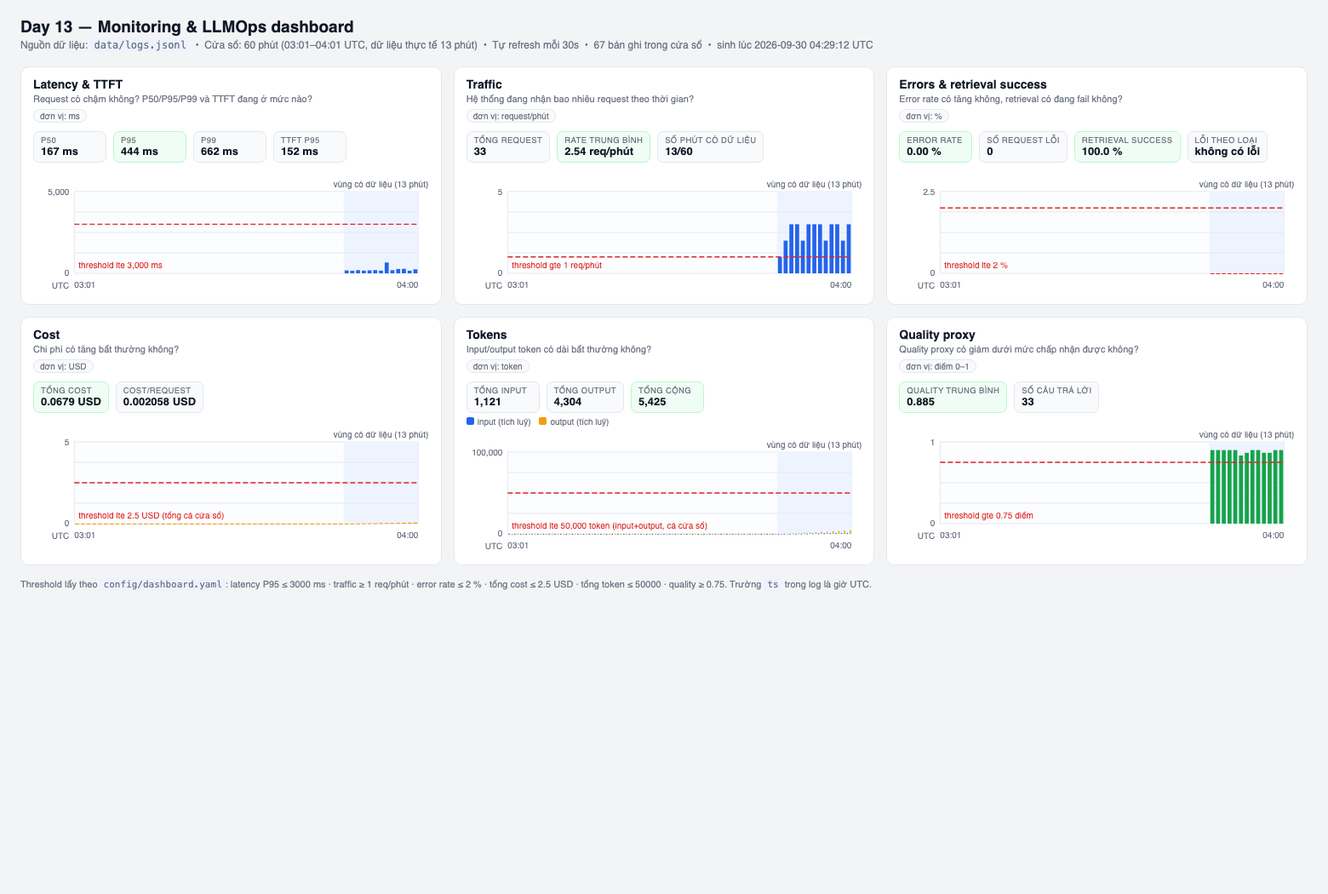
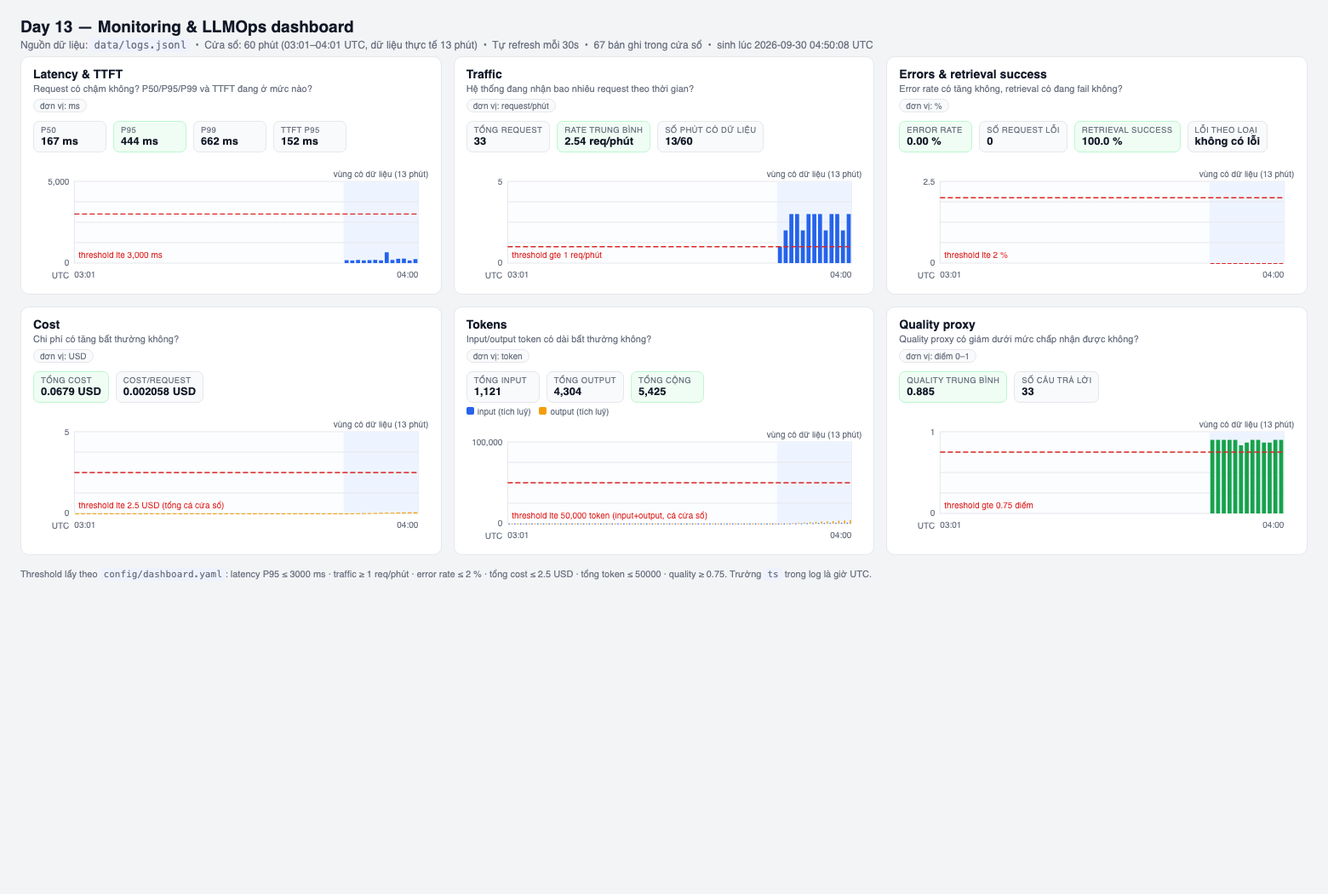
feat(cp3): capture the rag_slow incident evidence and harden the dashboard
- dashboard: add --note so an incident screenshot can carry the challenge ID
  and baseline-vs-incident numbers, and make the log path label tolerate a log
  file outside the repository instead of raising ValueError
- raise the dashboard CSS/source path in line with the new note block
- evidence 11: re-rendered from the CP2 window, byte-reproducible from this
  script and free of local machine paths
- evidence 12: incident dashboard for day13-k4-l3b-monitoring-llmops-v1
  (rag_slow), showing baseline p50 159ms against incident p50 2666ms
- evidence 13: raw correlation_id log lines with the payload preview stripped,
  so no challenge input text is committed; sha256 of each raw line is included

pytest 32 passed; validate_dashboard 6/6; validate_logs 100/100

diff --git a/submission/evidence/dashboard-incident-runtime.html b/submission/evidence/dashboard-incident-runtime.html
@@ -1,0 +1,116 @@
+<!doctype html>
+<html lang="vi">
+<head>
+<meta charset="utf-8">
+<meta http-equiv="refresh" content="30">
+<title>Day 13 Monitoring &amp; LLMOps dashboard</title>
+<style>
+  :root { color-scheme: light; }
+  * { box-sizing: border-box; }
+  body { margin: 0; padding: 20px 24px 32px; background: #f3f4f6; color: #111827;
+         font-family: -apple-system, "Segoe UI", Roboto, Helvetica, Arial, sans-serif; }
+  h1 { font-size: 19px; margin: 0 0 4px; }
+  .sub { color: #6b7280; font-size: 12px; margin: 0 0 6px; }
+  .note { font-size: 12.5px; font-weight: 600; color: #7f1d1d; background: #fef2f2;
+           border: 1px solid #fecaca; border-radius: 7px; padding: 6px 10px; margin: 0 0 14px; }
+  .grid { display: grid; grid-template-columns: repeat(3, 1fr); gap: 14px; }
+  .panel { background: #fff; border: 1px solid #e5e7eb; border-radius: 10px; padding: 12px 14px 8px; }
+  .panel h2 { font-size: 14px; margin: 0; }
+  .panel .q { color: #6b7280; font-size: 11px; margin: 3px 0 0; }
+  .unit { display: inline-block; margin-top: 5px; font-size: 10px; color: #6b7280;
+           background: #f9fafb; border: 1px solid #e5e7eb; border-radius: 999px; padding: 1px 7px; }
+  .stats { display: flex; flex-wrap: wrap; gap: 8px; margin: 10px 0 4px; }
+  .stat { background: #f9fafb; border: 1px solid #e5e7eb; border-radius: 7px;
+           padding: 5px 8px; min-width: 86px; }
+  .stat-ok { border-color: #bbf7d0; background: #f0fdf4; }
+  .stat-bad { border-color: #fecaca; background: #fef2f2; }
+  .stat-label { display: block; font-size: 9.5px; text-transform: uppercase;
+                 letter-spacing: .04em; color: #6b7280; }
+  .stat-value { display: block; font-size: 13px; font-weight: 600; }
+  .legend { font-size: 10px; color: #6b7280; margin: 4px 0 0; }
+  .legend-item { margin-right: 10px; }
+  .legend-item i { display: inline-block; width: 9px; height: 9px; border-radius: 2px; margin-right: 4px; }
+  footer { margin-top: 16px; font-size: 11px; color: #6b7280; }
+  code { background: #eef2ff; padding: 1px 4px; border-radius: 4px; }
+</style>
+</head>
+<body>
+  <h1>Day 13 — Monitoring &amp; LLMOps dashboard</h1>
+  <p class="sub">
+    Nguồn dữ liệu: <code>data/logs.jsonl</code>
+    &nbsp;•&nbsp; Cửa sổ: 60 phút (03:49–04:49 UTC, dữ liệu thực tế
+    4 phút)
+    &nbsp;•&nbsp; Tự refresh mỗi 30s
+    &nbsp;•&nbsp; 73 bản ghi trong cửa sổ
+    &nbsp;•&nbsp; sinh lúc 2026-09-30 04:51:00 UTC
+  </p>
+  <p class="note">CHALLENGE day13-k4-l3b-monitoring-llmops-v1 · incident rag_slow · feature monitoring · ngưỡng challenge 2000ms · baseline p50 159ms (0/10 request vượt) → challenge p50 2.666ms (25/25 vượt) · TTFT gần như không đổi (139ms) · sự cố 04:43–04:46 UTC ngày 2026-09-30</p>
+  <div class="grid">
+    
+    <section class="panel" id="latency">
+      <header>
+        <h2>Latency & TTFT</h2>
+        <p class="q">Request có chậm không? P50/P95/P99 và TTFT đang ở mức nào?</p>
+        <span class="unit">đơn vị: ms</span>
+      </header>
+      <div class="stats"><div class="stat"><span class="stat-label">P50</span><span class="stat-value">2,663 ms</span></div><div class="stat stat-ok"><span class="stat-label">P95</span><span class="stat-value">2,703 ms</span></div><div class="stat"><span class="stat-label">P99</span><span class="stat-value">3,162 ms</span></div><div class="stat"><span class="stat-label">TTFT P95</span><span class="stat-value">139 ms</span></div></div>
+      <svg viewBox="0 0 460 150" width="100%" height="150" role="img"><rect x="46" y="30" width="404" height="96" fill="#fbfdff" stroke="#e5e7eb"/><rect x="409.6" y="30" width="26.9" height="96" fill="#eef4ff"/><text x="423.1" y="25" text-anchor="middle" font-size="10" fill="#6b7280">vùng có dữ liệu (4 phút)</text><line x1="46" y1="54.0" x2="450" y2="54.0" stroke="#e5e7eb"/><line x1="46" y1="78.0" x2="450" y2="78.0" stroke="#e5e7eb"/><line x1="46" y1="102.0" x2="450" y2="102.0" stroke="#e5e7eb"/><text x="40" y="34" text-anchor="end" font-size="10" fill="#6b7280">5,000</text><text x="40" y="129" text-anchor="end" font-size="10" fill="#6b7280">0</text><rect x="410.6" y="74.6" width="4.7" height="51.4" fill="#2563eb"><title>04:43 — 2,677.00 ms</title></rect><rect x="417.3" y="74.6" width="4.7" height="51.4" fill="#2563eb"><title>04:44 — 2,677.00 ms</title></rect><rect x="424.1" y="65.3" width="4.7" height="60.7" fill="#2563eb"><title>04:45 — 3,162.00 ms</title></rect><rect x="430.8" y="74.6" width="4.7" height="51.4" fill="#2563eb"><title>04:46 — 2,677.00 ms</title></rect><line x1="46" y1="68.4" x2="450" y2="68.4" stroke="#dc2626" stroke-width="1.4" stroke-dasharray="6 3"/><text x="51" y="120" font-size="10" fill="#dc2626" stroke="#ffffff" stroke-width="2.5" paint-order="stroke">threshold lte 3,000 ms</text><text x="40" y="144" text-anchor="end" font-size="10" fill="#6b7280">UTC</text><text x="46" y="143" font-size="10" fill="#6b7280">03:49</text><text x="450" y="143" text-anchor="end" font-size="10" fill="#6b7280">04:48</text></svg>
+    </section>
+    
+    <section class="panel" id="traffic">
+      <header>
+        <h2>Traffic</h2>
+        <p class="q">Hệ thống đang nhận bao nhiêu request theo thời gian?</p>
+        <span class="unit">đơn vị: request/phút</span>
+      </header>
+      <div class="stats"><div class="stat"><span class="stat-label">Tổng request</span><span class="stat-value">35</span></div><div class="stat stat-ok"><span class="stat-label">Rate trung bình</span><span class="stat-value">8.75 req/phút</span></div><div class="stat"><span class="stat-label">Số phút có dữ liệu</span><span class="stat-value">4/60</span></div></div>
+      <svg viewBox="0 0 460 150" width="100%" height="150" role="img"><rect x="46" y="30" width="404" height="96" fill="#fbfdff" stroke="#e5e7eb"/><rect x="409.6" y="30" width="26.9" height="96" fill="#eef4ff"/><text x="423.1" y="25" text-anchor="middle" font-size="10" fill="#6b7280">vùng có dữ liệu (4 phút)</text><line x1="46" y1="54.0" x2="450" y2="54.0" stroke="#e5e7eb"/><line x1="46" y1="78.0" x2="450" y2="78.0" stroke="#e5e7eb"/><line x1="46" y1="102.0" x2="450" y2="102.0" stroke="#e5e7eb"/><text x="40" y="34" text-anchor="end" font-size="10" fill="#6b7280">20</text><text x="40" y="129" text-anchor="end" font-size="10" fill="#6b7280">0</text><rect x="410.6" y="54.0" width="4.7" height="72.0" fill="#2563eb"><title>04:43 — 15.00 req/phút</title></rect><rect x="417.3" y="97.2" width="4.7" height="28.8" fill="#2563eb"><title>04:44 — 6.00 req/phút</title></rect><rect x="424.1" y="82.8" width="4.7" height="43.2" fill="#2563eb"><title>04:45 — 9.00 req/phút</title></rect><rect x="430.8" y="102.0" width="4.7" height="24.0" fill="#2563eb"><title>04:46 — 5.00 req/phút</title></rect><line x1="46" y1="121.2" x2="450" y2="121.2" stroke="#dc2626" stroke-width="1.4" stroke-dasharray="6 3"/><text x="51" y="120" font-size="10" fill="#dc2626" stroke="#ffffff" stroke-width="2.5" paint-order="stroke">threshold gte 1 req/phút</text><text x="40" y="144" text-anchor="end" font-size="10" fill="#6b7280">UTC</text><text x="46" y="143" font-size="10" fill="#6b7280">03:49</text><text x="450" y="143" text-anchor="end" font-size="10" fill="#6b7280">04:48</text></svg>
+    </section>
+    
+    <section class="panel" id="errors">
+      <header>
+        <h2>Errors & retrieval success</h2>
+        <p class="q">Error rate có tăng không, retrieval có đang fail không?</p>
+        <span class="unit">đơn vị: %</span>
+      </header>
+      <div class="stats"><div class="stat stat-ok"><span class="stat-label">Error rate</span><span class="stat-value">0.00 %</span></div><div class="stat"><span class="stat-label">Số request lỗi</span><span class="stat-value">0</span></div><div class="stat stat-ok"><span class="stat-label">Retrieval success</span><span class="stat-value">100.0 %</span></div><div class="stat"><span class="stat-label">Lỗi theo loại</span><span class="stat-value">không có lỗi</span></div></div>
+      <svg viewBox="0 0 460 150" width="100%" height="150" role="img"><rect x="46" y="30" width="404" height="96" fill="#fbfdff" stroke="#e5e7eb"/><rect x="409.6" y="30" width="26.9" height="96" fill="#eef4ff"/><text x="423.1" y="25" text-anchor="middle" font-size="10" fill="#6b7280">vùng có dữ liệu (4 phút)</text><line x1="46" y1="54.0" x2="450" y2="54.0" stroke="#e5e7eb"/><line x1="46" y1="78.0" x2="450" y2="78.0" stroke="#e5e7eb"/><line x1="46" y1="102.0" x2="450" y2="102.0" stroke="#e5e7eb"/><text x="40" y="34" text-anchor="end" font-size="10" fill="#6b7280">2.5</text><text x="40" y="129" text-anchor="end" font-size="10" fill="#6b7280">0</text><rect x="410.6" y="126.0" width="4.7" height="1.0" fill="#dc2626"><title>04:43 — 0.00 %</title></rect><rect x="417.3" y="126.0" width="4.7" height="1.0" fill="#dc2626"><title>04:44 — 0.00 %</title></rect><rect x="424.1" y="126.0" width="4.7" height="1.0" fill="#dc2626"><title>04:45 — 0.00 %</title></rect><rect x="430.8" y="126.0" width="4.7" height="1.0" fill="#dc2626"><title>04:46 — 0.00 %</title></rect><line x1="46" y1="49.2" x2="450" y2="49.2" stroke="#dc2626" stroke-width="1.4" stroke-dasharray="6 3"/><text x="51" y="120" font-size="10" fill="#dc2626" stroke="#ffffff" stroke-width="2.5" paint-order="stroke">threshold lte 2 %</text><text x="40" y="144" text-anchor="end" font-size="10" fill="#6b7280">UTC</text><text x="46" y="143" font-size="10" fill="#6b7280">03:49</text><text x="450" y="143" text-anchor="end" font-size="10" fill="#6b7280">04:48</text></svg>
+    </section>
+    
+    <section class="panel" id="cost">
+      <header>
+        <h2>Cost</h2>
+        <p class="q">Chi phí có tăng bất thường không?</p>
+        <span class="unit">đơn vị: USD</span>
+      </header>
+      <div class="stats"><div class="stat stat-ok"><span class="stat-label">Tổng cost</span><span class="stat-value">0.0800 USD</span></div><div class="stat"><span class="stat-label">Cost/request</span><span class="stat-value">0.002285 USD</span></div></div>
+      <svg viewBox="0 0 460 150" width="100%" height="150" role="img"><rect x="46" y="30" width="404" height="96" fill="#fbfdff" stroke="#e5e7eb"/><rect x="409.6" y="30" width="26.9" height="96" fill="#eef4ff"/><text x="423.1" y="25" text-anchor="middle" font-size="10" fill="#6b7280">vùng có dữ liệu (4 phút)</text><line x1="46" y1="54.0" x2="450" y2="54.0" stroke="#e5e7eb"/><line x1="46" y1="78.0" x2="450" y2="78.0" stroke="#e5e7eb"/><line x1="46" y1="102.0" x2="450" y2="102.0" stroke="#e5e7eb"/><text x="40" y="34" text-anchor="end" font-size="10" fill="#6b7280">5</text><text x="40" y="129" text-anchor="end" font-size="10" fill="#6b7280">0</text><rect x="47.0" y="126.0" width="4.7" height="1.0" fill="#f59e0b"><title>03:49 — 0.00 USD</title></rect><rect x="53.7" y="126.0" width="4.7" height="1.0" fill="#f59e0b"><title>03:50 — 0.00 USD</title></rect><rect x="60.5" y="126.0" width="4.7" height="1.0" fill="#f59e0b"><title>03:51 — 0.00 USD</title></rect><rect x="67.2" y="126.0" width="4.7" height="1.0" fill="#f59e0b"><title>03:52 — 0.00 USD</title></rect><rect x="73.9" y="126.0" width="4.7" height="1.0" fill="#f59e0b"><title>03:53 — 0.00 USD</title></rect><rect x="80.7" y="126.0" width="4.7" height="1.0" fill="#f59e0b"><title>03:54 — 0.00 USD</title></rect><rect x="87.4" y="126.0" width="4.7" height="1.0" fill="#f59e0b"><title>03:55 — 0.00 USD</title></rect><rect x="94.1" y="126.0" width="4.7" height="1.0" fill="#f59e0b"><title>03:56 — 0.00 USD</title></rect><rect x="100.9" y="126.0" width="4.7" height="1.0" fill="#f59e0b"><title>03:57 — 0.00 USD</title></rect><rect x="107.6" y="126.0" width="4.7" height="1.0" fill="#f59e0b"><title>03:58 — 0.00 USD</title></rect><rect x="114.3" y="126.0" width="4.7" height="1.0" fill="#f59e0b"><title>03:59 — 0.00 USD</title></rect><rect x="121.1" y="126.0" width="4.7" height="1.0" fill="#f59e0b"><title>04:00 — 0.00 USD</title></rect><rect x="127.8" y="126.0" width="4.7" height="1.0" fill="#f59e0b"><title>04:01 — 0.00 USD</title></rect><rect x="134.5" y="126.0" width="4.7" height="1.0" fill="#f59e0b"><title>04:02 — 0.00 USD</title></rect><rect x="141.3" y="126.0" width="4.7" height="1.0" fill="#f59e0b"><title>04:03 — 0.00 USD</title></rect><rect x="148.0" y="126.0" width="4.7" height="1.0" fill="#f59e0b"><title>04:04 — 0.00 USD</title></rect><rect x="154.7" y="126.0" width="4.7" height="1.0" fill="#f59e0b"><title>04:05 — 0.00 USD</title></rect><rect x="161.5" y="126.0" width="4.7" height="1.0" fill="#f59e0b"><title>04:06 — 0.00 USD</title></rect><rect x="168.2" y="126.0" width="4.7" height="1.0" fill="#f59e0b"><title>04:07 — 0.00 USD</title></rect><rect x="174.9" y="126.0" width="4.7" height="1.0" fill="#f59e0b"><title>04:08 — 0.00 USD</title></rect><rect x="181.7" y="126.0" width="4.7" height="1.0" fill="#f59e0b"><title>04:09 — 0.00 USD</title></rect><rect x="188.4" y="126.0" width="4.7" height="1.0" fill="#f59e0b"><title>04:10 — 0.00 USD</title></rect><rect x="195.1" y="126.0" width="4.7" height="1.0" fill="#f59e0b"><title>04:11 — 0.00 USD</title></rect><rect x="201.9" y="126.0" width="4.7" height="1.0" fill="#f59e0b"><title>04:12 — 0.00 USD</title></rect><rect x="208.6" y="126.0" width="4.7" height="1.0" fill="#f59e0b"><title>04:13 — 0.00 USD</title></rect><rect x="215.3" y="126.0" width="4.7" height="1.0" fill="#f59e0b"><title>04:14 — 0.00 USD</title></rect><rect x="222.1" y="126.0" width="4.7" height="1.0" fill="#f59e0b"><title>04:15 — 0.00 USD</title></rect><rect x="228.8" y="126.0" width="4.7" height="1.0" fill="#f59e0b"><title>04:16 — 0.00 USD</title></rect><rect x="235.5" y="126.0" width="4.7" height="1.0" fill="#f59e0b"><title>04:17 — 0.00 USD</title></rect><rect x="242.3" y="126.0" width="4.7" height="1.0" fill="#f59e0b"><title>04:18 — 0.00 USD</title></rect><rect x="249.0" y="126.0" width="4.7" height="1.0" fill="#f59e0b"><title>04:19 — 0.00 USD</title></rect><rect x="255.7" y="126.0" width="4.7" height="1.0" fill="#f59e0b"><title>04:20 — 0.00 USD</title></rect><rect x="262.5" y="126.0" width="4.7" height="1.0" fill="#f59e0b"><title>04:21 — 0.00 USD</title></rect><rect x="269.2" y="126.0" width="4.7" height="1.0" fill="#f59e0b"><title>04:22 — 0.00 USD</title></rect><rect x="275.9" y="126.0" width="4.7" height="1.0" fill="#f59e0b"><title>04:23 — 0.00 USD</title></rect><rect x="282.7" y="126.0" width="4.7" height="1.0" fill="#f59e0b"><title>04:24 — 0.00 USD</title></rect><rect x="289.4" y="126.0" width="4.7" height="1.0" fill="#f59e0b"><title>04:25 — 0.00 USD</title></rect><rect x="296.1" y="126.0" width="4.7" height="1.0" fill="#f59e0b"><title>04:26 — 0.00 USD</title></rect><rect x="302.9" y="126.0" width="4.7" height="1.0" fill="#f59e0b"><title>04:27 — 0.00 USD</title></rect><rect x="309.6" y="126.0" width="4.7" height="1.0" fill="#f59e0b"><title>04:28 — 0.00 USD</title></rect><rect x="316.3" y="126.0" width="4.7" height="1.0" fill="#f59e0b"><title>04:29 — 0.00 USD</title></rect><rect x="323.1" y="126.0" width="4.7" height="1.0" fill="#f59e0b"><title>04:30 — 0.00 USD</title></rect><rect x="329.8" y="126.0" width="4.7" height="1.0" fill="#f59e0b"><title>04:31 — 0.00 USD</title></rect><rect x="336.5" y="126.0" width="4.7" height="1.0" fill="#f59e0b"><title>04:32 — 0.00 USD</title></rect><rect x="343.3" y="126.0" width="4.7" height="1.0" fill="#f59e0b"><title>04:33 — 0.00 USD</title></rect><rect x="350.0" y="126.0" width="4.7" height="1.0" fill="#f59e0b"><title>04:34 — 0.00 USD</title></rect><rect x="356.7" y="126.0" width="4.7" height="1.0" fill="#f59e0b"><title>04:35 — 0.00 USD</title></rect><rect x="363.5" y="126.0" width="4.7" height="1.0" fill="#f59e0b"><title>04:36 — 0.00 USD</title></rect><rect x="370.2" y="126.0" width="4.7" height="1.0" fill="#f59e0b"><title>04:37 — 0.00 USD</title></rect><rect x="376.9" y="126.0" width="4.7" height="1.0" fill="#f59e0b"><title>04:38 — 0.00 USD</title></rect><rect x="383.7" y="126.0" width="4.7" height="1.0" fill="#f59e0b"><title>04:39 — 0.00 USD</title></rect><rect x="390.4" y="126.0" width="4.7" height="1.0" fill="#f59e0b"><title>04:40 — 0.00 USD</title></rect><rect x="397.1" y="126.0" width="4.7" height="1.0" fill="#f59e0b"><title>04:41 — 0.00 USD</title></rect><rect x="403.9" y="126.0" width="4.7" height="1.0" fill="#f59e0b"><title>04:42 — 0.00 USD</title></rect><rect x="410.6" y="125.3" width="4.7" height="1.0" fill="#f59e0b"><title>04:43 — 0.03 USD</title></rect><rect x="417.3" y="125.1" width="4.7" height="1.0" fill="#f59e0b"><title>04:44 — 0.05 USD</title></rect><rect x="424.1" y="124.7" width="4.7" height="1.3" fill="#f59e0b"><title>04:45 — 0.07 USD</title></rect><rect x="430.8" y="124.5" width="4.7" height="1.5" fill="#f59e0b"><title>04:46 — 0.08 USD</title></rect><rect x="437.5" y="124.5" width="4.7" height="1.5" fill="#f59e0b"><title>04:47 — 0.08 USD</title></rect><rect x="444.3" y="124.5" width="4.7" height="1.5" fill="#f59e0b"><title>04:48 — 0.08 USD</title></rect><line x1="46" y1="78.0" x2="450" y2="78.0" stroke="#dc2626" stroke-width="1.4" stroke-dasharray="6 3"/><text x="51" y="120" font-size="10" fill="#dc2626" stroke="#ffffff" stroke-width="2.5" paint-order="stroke">threshold lte 2.5 USD (tổng cả cửa sổ)</text><text x="40" y="144" text-anchor="end" font-size="10" fill="#6b7280">UTC</text><text x="46" y="143" font-size="10" fill="#6b7280">03:49</text><text x="450" y="143" text-anchor="end" font-size="10" fill="#6b7280">04:48</text></svg>
+    </section>
+    
+    <section class="panel" id="tokens">
+      <header>
+        <h2>Tokens</h2>
+        <p class="q">Input/output token có dài bất thường không?</p>
+        <span class="unit">đơn vị: token</span>
+      </header>
+      <div class="stats"><div class="stat"><span class="stat-label">Tổng input</span><span class="stat-value">1,213</span></div><div class="stat"><span class="stat-label">Tổng output</span><span class="stat-value">5,090</span></div><div class="stat stat-ok"><span class="stat-label">Tổng cộng</span><span class="stat-value">6,303</span></div></div>
+      <div class="legend"><span class="legend-item"><i style="background:#2563eb"></i>input (tích luỹ)</span><span class="legend-item"><i style="background:#f59e0b"></i>output (tích luỹ)</span></div><svg viewBox="0 0 460 150" width="100%" height="150" role="img"><rect x="46" y="30" width="404" height="96" fill="#fbfdff" stroke="#e5e7eb"/><rect x="409.6" y="30" width="26.9" height="96" fill="#eef4ff"/><text x="423.1" y="25" text-anchor="middle" font-size="10" fill="#6b7280">vùng có dữ liệu (4 phút)</text><line x1="46" y1="54.0" x2="450" y2="54.0" stroke="#e5e7eb"/><line x1="46" y1="78.0" x2="450" y2="78.0" stroke="#e5e7eb"/><line x1="46" y1="102.0" x2="450" y2="102.0" stroke="#e5e7eb"/><text x="40" y="34" text-anchor="end" font-size="10" fill="#6b7280">100,000</text><text x="40" y="129" text-anchor="end" font-size="10" fill="#6b7280">0</text><rect x="47.0" y="126.0" width="1.5" height="1.0" fill="#2563eb"><title>03:49 — 0.00 token</title></rect><rect x="50.5" y="126.0" width="1.5" height="1.0" fill="#f59e0b"><title>03:49 — 0.00 token</title></rect><rect x="53.7" y="126.0" width="1.5" height="1.0" fill="#2563eb"><title>03:50 — 0.00 token</title></rect><rect x="57.2" y="126.0" width="1.5" height="1.0" fill="#f59e0b"><title>03:50 — 0.00 token</title></rect><rect x="60.5" y="126.0" width="1.5" height="1.0" fill="#2563eb"><title>03:51 — 0.00 token</title></rect><rect x="64.0" y="126.0" width="1.5" height="1.0" fill="#f59e0b"><title>03:51 — 0.00 token</title></rect><rect x="67.2" y="126.0" width="1.5" height="1.0" fill="#2563eb"><title>03:52 — 0.00 token</title></rect><rect x="70.7" y="126.0" width="1.5" height="1.0" fill="#f59e0b"><title>03:52 — 0.00 token</title></rect><rect x="73.9" y="126.0" width="1.5" height="1.0" fill="#2563eb"><title>03:53 — 0.00 token</title></rect><rect x="77.4" y="126.0" width="1.5" height="1.0" fill="#f59e0b"><title>03:53 — 0.00 token</title></rect><rect x="80.7" y="126.0" width="1.5" height="1.0" fill="#2563eb"><title>03:54 — 0.00 token</title></rect><rect x="84.2" y="126.0" width="1.5" height="1.0" fill="#f59e0b"><title>03:54 — 0.00 token</title></rect><rect x="87.4" y="126.0" width="1.5" height="1.0" fill="#2563eb"><title>03:55 — 0.00 token</title></rect><rect x="90.9" y="126.0" width="1.5" height="1.0" fill="#f59e0b"><title>03:55 — 0.00 token</title></rect><rect x="94.1" y="126.0" width="1.5" height="1.0" fill="#2563eb"><title>03:56 — 0.00 token</title></rect><rect x="97.6" y="126.0" width="1.5" height="1.0" fill="#f59e0b"><title>03:56 — 0.00 token</title></rect><rect x="100.9" y="126.0" width="1.5" height="1.0" fill="#2563eb"><title>03:57 — 0.00 token</title></rect><rect x="104.4" y="126.0" width="1.5" height="1.0" fill="#f59e0b"><title>03:57 — 0.00 token</title></rect><rect x="107.6" y="126.0" width="1.5" height="1.0" fill="#2563eb"><title>03:58 — 0.00 token</title></rect><rect x="111.1" y="126.0" width="1.5" height="1.0" fill="#f59e0b"><title>03:58 — 0.00 token</title></rect><rect x="114.3" y="126.0" width="1.5" height="1.0" fill="#2563eb"><title>03:59 — 0.00 token</title></rect><rect x="117.8" y="126.0" width="1.5" height="1.0" fill="#f59e0b"><title>03:59 — 0.00 token</title></rect><rect x="121.1" y="126.0" width="1.5" height="1.0" fill="#2563eb"><title>04:00 — 0.00 token</title></rect><rect x="124.6" y="126.0" width="1.5" height="1.0" fill="#f59e0b"><title>04:00 — 0.00 token</title></rect><rect x="127.8" y="126.0" width="1.5" height="1.0" fill="#2563eb"><title>04:01 — 0.00 token</title></rect><rect x="131.3" y="126.0" width="1.5" height="1.0" fill="#f59e0b"><title>04:01 — 0.00 token</title></rect><rect x="134.5" y="126.0" width="1.5" height="1.0" fill="#2563eb"><title>04:02 — 0.00 token</title></rect><rect x="138.0" y="126.0" width="1.5" height="1.0" fill="#f59e0b"><title>04:02 — 0.00 token</title></rect><rect x="141.3" y="126.0" width="1.5" height="1.0" fill="#2563eb"><title>04:03 — 0.00 token</title></rect><rect x="144.8" y="126.0" width="1.5" height="1.0" fill="#f59e0b"><title>04:03 — 0.00 token</title></rect><rect x="148.0" y="126.0" width="1.5" height="1.0" fill="#2563eb"><title>04:04 — 0.00 token</title></rect><rect x="151.5" y="126.0" width="1.5" height="1.0" fill="#f59e0b"><title>04:04 — 0.00 token</title></rect><rect x="154.7" y="126.0" width="1.5" height="1.0" fill="#2563eb"><title>04:05 — 0.00 token</title></rect><rect x="158.2" y="126.0" width="1.5" height="1.0" fill="#f59e0b"><title>04:05 — 0.00 token</title></rect><rect x="161.5" y="126.0" width="1.5" height="1.0" fill="#2563eb"><title>04:06 — 0.00 token</title></rect><rect x="165.0" y="126.0" width="1.5" height="1.0" fill="#f59e0b"><title>04:06 — 0.00 token</title></rect><rect x="168.2" y="126.0" width="1.5" height="1.0" fill="#2563eb"><title>04:07 — 0.00 token</title></rect><rect x="171.7" y="126.0" width="1.5" height="1.0" fill="#f59e0b"><title>04:07 — 0.00 token</title></rect><rect x="174.9" y="126.0" width="1.5" height="1.0" fill="#2563eb"><title>04:08 — 0.00 token</title></rect><rect x="178.4" y="126.0" width="1.5" height="1.0" fill="#f59e0b"><title>04:08 — 0.00 token</title></rect><rect x="181.7" y="126.0" width="1.5" height="1.0" fill="#2563eb"><title>04:09 — 0.00 token</title></rect><rect x="185.2" y="126.0" width="1.5" height="1.0" fill="#f59e0b"><title>04:09 — 0.00 token</title></rect><rect x="188.4" y="126.0" width="1.5" height="1.0" fill="#2563eb"><title>04:10 — 0.00 token</title></rect><rect x="191.9" y="126.0" width="1.5" height="1.0" fill="#f59e0b"><title>04:10 — 0.00 token</title></rect><rect x="195.1" y="126.0" width="1.5" height="1.0" fill="#2563eb"><title>04:11 — 0.00 token</title></rect><rect x="198.6" y="126.0" width="1.5" height="1.0" fill="#f59e0b"><title>04:11 — 0.00 token</title></rect><rect x="201.9" y="126.0" width="1.5" height="1.0" fill="#2563eb"><title>04:12 — 0.00 token</title></rect><rect x="205.4" y="126.0" width="1.5" height="1.0" fill="#f59e0b"><title>04:12 — 0.00 token</title></rect><rect x="208.6" y="126.0" width="1.5" height="1.0" fill="#2563eb"><title>04:13 — 0.00 token</title></rect><rect x="212.1" y="126.0" width="1.5" height="1.0" fill="#f59e0b"><title>04:13 — 0.00 token</title></rect><rect x="215.3" y="126.0" width="1.5" height="1.0" fill="#2563eb"><title>04:14 — 0.00 token</title></rect><rect x="218.8" y="126.0" width="1.5" height="1.0" fill="#f59e0b"><title>04:14 — 0.00 token</title></rect><rect x="222.1" y="126.0" width="1.5" height="1.0" fill="#2563eb"><title>04:15 — 0.00 token</title></rect><rect x="225.6" y="126.0" width="1.5" height="1.0" fill="#f59e0b"><title>04:15 — 0.00 token</title></rect><rect x="228.8" y="126.0" width="1.5" height="1.0" fill="#2563eb"><title>04:16 — 0.00 token</title></rect><rect x="232.3" y="126.0" width="1.5" height="1.0" fill="#f59e0b"><title>04:16 — 0.00 token</title></rect><rect x="235.5" y="126.0" width="1.5" height="1.0" fill="#2563eb"><title>04:17 — 0.00 token</title></rect><rect x="239.0" y="126.0" width="1.5" height="1.0" fill="#f59e0b"><title>04:17 — 0.00 token</title></rect><rect x="242.3" y="126.0" width="1.5" height="1.0" fill="#2563eb"><title>04:18 — 0.00 token</title></rect><rect x="245.8" y="126.0" width="1.5" height="1.0" fill="#f59e0b"><title>04:18 — 0.00 token</title></rect><rect x="249.0" y="126.0" width="1.5" height="1.0" fill="#2563eb"><title>04:19 — 0.00 token</title></rect><rect x="252.5" y="126.0" width="1.5" height="1.0" fill="#f59e0b"><title>04:19 — 0.00 token</title></rect><rect x="255.7" y="126.0" width="1.5" height="1.0" fill="#2563eb"><title>04:20 — 0.00 token</title></rect><rect x="259.2" y="126.0" width="1.5" height="1.0" fill="#f59e0b"><title>04:20 — 0.00 token</title></rect><rect x="262.5" y="126.0" width="1.5" height="1.0" fill="#2563eb"><title>04:21 — 0.00 token</title></rect><rect x="266.0" y="126.0" width="1.5" height="1.0" fill="#f59e0b"><title>04:21 — 0.00 token</title></rect><rect x="269.2" y="126.0" width="1.5" height="1.0" fill="#2563eb"><title>04:22 — 0.00 token</title></rect><rect x="272.7" y="126.0" width="1.5" height="1.0" fill="#f59e0b"><title>04:22 — 0.00 token</title></rect><rect x="275.9" y="126.0" width="1.5" height="1.0" fill="#2563eb"><title>04:23 — 0.00 token</title></rect><rect x="279.4" y="126.0" width="1.5" height="1.0" fill="#f59e0b"><title>04:23 — 0.00 token</title></rect><rect x="282.7" y="126.0" width="1.5" height="1.0" fill="#2563eb"><title>04:24 — 0.00 token</title></rect><rect x="286.2" y="126.0" width="1.5" height="1.0" fill="#f59e0b"><title>04:24 — 0.00 token</title></rect><rect x="289.4" y="126.0" width="1.5" height="1.0" fill="#2563eb"><title>04:25 — 0.00 token</title></rect><rect x="292.9" y="126.0" width="1.5" height="1.0" fill="#f59e0b"><title>04:25 — 0.00 token</title></rect><rect x="296.1" y="126.0" width="1.5" height="1.0" fill="#2563eb"><title>04:26 — 0.00 token</title></rect><rect x="299.6" y="126.0" width="1.5" height="1.0" fill="#f59e0b"><title>04:26 — 0.00 token</title></rect><rect x="302.9" y="126.0" width="1.5" height="1.0" fill="#2563eb"><title>04:27 — 0.00 token</title></rect><rect x="306.4" y="126.0" width="1.5" height="1.0" fill="#f59e0b"><title>04:27 — 0.00 token</title></rect><rect x="309.6" y="126.0" width="1.5" height="1.0" fill="#2563eb"><title>04:28 — 0.00 token</title></rect><rect x="313.1" y="126.0" width="1.5" height="1.0" fill="#f59e0b"><title>04:28 — 0.00 token</title></rect><rect x="316.3" y="126.0" width="1.5" height="1.0" fill="#2563eb"><title>04:29 — 0.00 token</title></rect><rect x="319.8" y="126.0" width="1.5" height="1.0" fill="#f59e0b"><title>04:29 — 0.00 token</title></rect><rect x="323.1" y="126.0" width="1.5" height="1.0" fill="#2563eb"><title>04:30 — 0.00 token</title></rect><rect x="326.6" y="126.0" width="1.5" height="1.0" fill="#f59e0b"><title>04:30 — 0.00 token</title></rect><rect x="329.8" y="126.0" width="1.5" height="1.0" fill="#2563eb"><title>04:31 — 0.00 token</title></rect><rect x="333.3" y="126.0" width="1.5" height="1.0" fill="#f59e0b"><title>04:31 — 0.00 token</title></rect><rect x="336.5" y="126.0" width="1.5" height="1.0" fill="#2563eb"><title>04:32 — 0.00 token</title></rect><rect x="340.0" y="126.0" width="1.5" height="1.0" fill="#f59e0b"><title>04:32 — 0.00 token</title></rect><rect x="343.3" y="126.0" width="1.5" height="1.0" fill="#2563eb"><title>04:33 — 0.00 token</title></rect><rect x="346.8" y="126.0" width="1.5" height="1.0" fill="#f59e0b"><title>04:33 — 0.00 token</title></rect><rect x="350.0" y="126.0" width="1.5" height="1.0" fill="#2563eb"><title>04:34 — 0.00 token</title></rect><rect x="353.5" y="126.0" width="1.5" height="1.0" fill="#f59e0b"><title>04:34 — 0.00 token</title></rect><rect x="356.7" y="126.0" width="1.5" height="1.0" fill="#2563eb"><title>04:35 — 0.00 token</title></rect><rect x="360.2" y="126.0" width="1.5" height="1.0" fill="#f59e0b"><title>04:35 — 0.00 token</title></rect><rect x="363.5" y="126.0" width="1.5" height="1.0" fill="#2563eb"><title>04:36 — 0.00 token</title></rect><rect x="367.0" y="126.0" width="1.5" height="1.0" fill="#f59e0b"><title>04:36 — 0.00 token</title></rect><rect x="370.2" y="126.0" width="1.5" height="1.0" fill="#2563eb"><title>04:37 — 0.00 token</title></rect><rect x="373.7" y="126.0" width="1.5" height="1.0" fill="#f59e0b"><title>04:37 — 0.00 token</title></rect><rect x="376.9" y="126.0" width="1.5" height="1.0" fill="#2563eb"><title>04:38 — 0.00 token</title></rect><rect x="380.4" y="126.0" width="1.5" height="1.0" fill="#f59e0b"><title>04:38 — 0.00 token</title></rect><rect x="383.7" y="126.0" width="1.5" height="1.0" fill="#2563eb"><title>04:39 — 0.00 token</title></rect><rect x="387.2" y="126.0" width="1.5" height="1.0" fill="#f59e0b"><title>04:39 — 0.00 token</title></rect><rect x="390.4" y="126.0" width="1.5" height="1.0" fill="#2563eb"><title>04:40 — 0.00 token</title></rect><rect x="393.9" y="126.0" width="1.5" height="1.0" fill="#f59e0b"><title>04:40 — 0.00 token</title></rect><rect x="397.1" y="126.0" width="1.5" height="1.0" fill="#2563eb"><title>04:41 — 0.00 token</title></rect><rect x="400.6" y="126.0" width="1.5" height="1.0" fill="#f59e0b"><title>04:41 — 0.00 token</title></rect><rect x="403.9" y="126.0" width="1.5" height="1.0" fill="#2563eb"><title>04:42 — 0.00 token</title></rect><rect x="407.4" y="126.0" width="1.5" height="1.0" fill="#f59e0b"><title>04:42 — 0.00 token</title></rect><rect x="410.6" y="125.5" width="1.5" height="1.0" fill="#2563eb"><title>04:43 — 513.00 token</title></rect><rect x="414.1" y="123.9" width="1.5" height="2.1" fill="#f59e0b"><title>04:43 — 2,188.00 token</title></rect><rect x="417.3" y="125.3" width="1.5" height="1.0" fill="#2563eb"><title>04:44 — 688.00 token</title></rect><rect x="420.8" y="123.2" width="1.5" height="2.8" fill="#f59e0b"><title>04:44 — 2,893.00 token</title></rect><rect x="424.1" y="125.0" width="1.5" height="1.0" fill="#2563eb"><title>04:45 — 1,038.00 token</title></rect><rect x="427.6" y="121.9" width="1.5" height="4.1" fill="#f59e0b"><title>04:45 — 4,289.00 token</title></rect><rect x="430.8" y="124.8" width="1.5" height="1.2" fill="#2563eb"><title>04:46 — 1,213.00 token</title></rect><rect x="434.3" y="121.1" width="1.5" height="4.9" fill="#f59e0b"><title>04:46 — 5,090.00 token</title></rect><rect x="437.5" y="124.8" width="1.5" height="1.2" fill="#2563eb"><title>04:47 — 1,213.00 token</title></rect><rect x="441.0" y="121.1" width="1.5" height="4.9" fill="#f59e0b"><title>04:47 — 5,090.00 token</title></rect><rect x="444.3" y="124.8" width="1.5" height="1.2" fill="#2563eb"><title>04:48 — 1,213.00 token</title></rect><rect x="447.8" y="121.1" width="1.5" height="4.9" fill="#f59e0b"><title>04:48 — 5,090.00 token</title></rect><line x1="46" y1="78.0" x2="450" y2="78.0" stroke="#dc2626" stroke-width="1.4" stroke-dasharray="6 3"/><text x="51" y="120" font-size="10" fill="#dc2626" stroke="#ffffff" stroke-width="2.5" paint-order="stroke">threshold lte 50,000 token (input+output, cả cửa sổ)</text><text x="40" y="144" text-anchor="end" font-size="10" fill="#6b7280">UTC</text><text x="46" y="143" font-size="10" fill="#6b7280">03:49</text><text x="450" y="143" text-anchor="end" font-size="10" fill="#6b7280">04:48</text></svg>
+    </section>
+    
+    <section class="panel" id="quality">
+      <header>
+        <h2>Quality proxy</h2>
+        <p class="q">Quality proxy có giảm dưới mức chấp nhận được không?</p>
+        <span class="unit">đơn vị: điểm 0–1</span>
+      </header>
+      <div class="stats"><div class="stat stat-ok"><span class="stat-label">Quality trung bình</span><span class="stat-value">0.851</span></div><div class="stat"><span class="stat-label">Số câu trả lời</span><span class="stat-value">35</span></div></div>
+      <svg viewBox="0 0 460 150" width="100%" height="150" role="img"><rect x="46" y="30" width="404" height="96" fill="#fbfdff" stroke="#e5e7eb"/><rect x="409.6" y="30" width="26.9" height="96" fill="#eef4ff"/><text x="423.1" y="25" text-anchor="middle" font-size="10" fill="#6b7280">vùng có dữ liệu (4 phút)</text><line x1="46" y1="54.0" x2="450" y2="54.0" stroke="#e5e7eb"/><line x1="46" y1="78.0" x2="450" y2="78.0" stroke="#e5e7eb"/><line x1="46" y1="102.0" x2="450" y2="102.0" stroke="#e5e7eb"/><text x="40" y="34" text-anchor="end" font-size="10" fill="#6b7280">1</text><text x="40" y="129" text-anchor="end" font-size="10" fill="#6b7280">0</text><rect x="410.6" y="42.8" width="4.7" height="83.2" fill="#16a34a"><title>04:43 — 0.87 điểm</title></rect><rect x="417.3" y="45.4" width="4.7" height="80.6" fill="#16a34a"><title>04:44 — 0.84 điểm</title></rect><rect x="424.1" y="45.4" width="4.7" height="80.6" fill="#16a34a"><title>04:45 — 0.84 điểm</title></rect><rect x="430.8" y="45.4" width="4.7" height="80.6" fill="#16a34a"><title>04:46 — 0.84 điểm</title></rect><line x1="46" y1="54.0" x2="450" y2="54.0" stroke="#dc2626" stroke-width="1.4" stroke-dasharray="6 3"/><text x="51" y="120" font-size="10" fill="#dc2626" stroke="#ffffff" stroke-width="2.5" paint-order="stroke">threshold gte 0.75 điểm</text><text x="40" y="144" text-anchor="end" font-size="10" fill="#6b7280">UTC</text><text x="46" y="143" font-size="10" fill="#6b7280">03:49</text><text x="450" y="143" text-anchor="end" font-size="10" fill="#6b7280">04:48</text></svg>
+    </section>
+  </div>
+  <footer>
+    Threshold lấy theo <code>config/dashboard.yaml</code>: latency P95 ≤ 3000 ms · traffic ≥ 1 req/phút ·
+    error rate ≤ 2 % · tổng cost ≤ 2.5 USD · tổng token ≤ 50000 · quality ≥ 0.75.
+    Trường <code>ts</code> trong log là giờ UTC.
+  </footer>
+</body>
+</html>

diff --git a/submission/evidence/dashboard-runtime.html b/submission/evidence/dashboard-runtime.html
@@ -10,7 +10,9 @@
   body { margin: 0; padding: 20px 24px 32px; background: #f3f4f6; color: #111827;
          font-family: -apple-system, "Segoe UI", Roboto, Helvetica, Arial, sans-serif; }
   h1 { font-size: 19px; margin: 0 0 4px; }
-  .sub { color: #6b7280; font-size: 12px; margin: 0 0 18px; }
+  .sub { color: #6b7280; font-size: 12px; margin: 0 0 6px; }
+  .note { font-size: 12.5px; font-weight: 600; color: #7f1d1d; background: #fef2f2;
+           border: 1px solid #fecaca; border-radius: 7px; padding: 6px 10px; margin: 0 0 14px; }
   .grid { display: grid; grid-template-columns: repeat(3, 1fr); gap: 14px; }
   .panel { background: #fff; border: 1px solid #e5e7eb; border-radius: 10px; padding: 12px 14px 8px; }
   .panel h2 { font-size: 14px; margin: 0; }
@@ -40,8 +42,9 @@
     13 phút)
     &nbsp;•&nbsp; Tự refresh mỗi 30s
     &nbsp;•&nbsp; 67 bản ghi trong cửa sổ
-    &nbsp;•&nbsp; sinh lúc 2026-09-30 04:29:12 UTC
+    &nbsp;•&nbsp; sinh lúc 2026-09-30 04:50:08 UTC
   </p>
+  
   <div class="grid">
     
     <section class="panel" id="latency">

diff --git a/scripts/dashboard.py b/scripts/dashboard.py
@@ -302,7 +302,15 @@ def panel(panel_id: str, title: str, question: str, unit: str, body: str, stats:
 # ------------------------------------------------------------------------ build
 
 
-def build_html(records: list[dict], log_path: Path) -> str:
+def display_path(path: Path) -> str:
+    """Đường dẫn gọn để hiển thị; log nằm ngoài repo vẫn phải render được."""
+    try:
+        return str(path.relative_to(REPO_ROOT))
+    except ValueError:
+        return str(path)
+
+
+def build_html(records: list[dict], log_path: Path, note: str = "") -> str:
     start, end, current = window_of(records)
     generated = datetime.now(timezone.utc).strftime("%Y-%m-%d %H:%M:%S UTC")
 
@@ -511,6 +519,8 @@ def build_html(records: list[dict], log_path: Path) -> str:
         + stat("Số câu trả lời", str(len(quality_values))),
     )
 
+    note_html = f'<p class="note">{note}</p>' if note else ""
+
     return f"""<!doctype html>
 <html lang="vi">
 <head>
@@ -523,7 +533,9 @@ def build_html(records: list[dict], log_path: Path) -> str:
   body {{ margin: 0; padding: 20px 24px 32px; background: #f3f4f6; color: {COLORS["ink"]};
          font-family: -apple-system, "Segoe UI", Roboto, Helvetica, Arial, sans-serif; }}
   h1 {{ font-size: 19px; margin: 0 0 4px; }}
-  .sub {{ color: {COLORS["muted"]}; font-size: 12px; margin: 0 0 18px; }}
+  .sub {{ color: {COLORS["muted"]}; font-size: 12px; margin: 0 0 6px; }}
+  .note {{ font-size: 12.5px; font-weight: 600; color: #7f1d1d; background: #fef2f2;
+           border: 1px solid #fecaca; border-radius: 7px; padding: 6px 10px; margin: 0 0 14px; }}
   .grid {{ display: grid; grid-template-columns: repeat(3, 1fr); gap: 14px; }}
   .panel {{ background: #fff; border: 1px solid {COLORS["grid"]}; border-radius: 10px; padding: 12px 14px 8px; }}
   .panel h2 {{ font-size: 14px; margin: 0; }}
@@ -548,13 +560,14 @@ def build_html(records: list[dict], log_path: Path) -> str:
 <body>
   <h1>Day 13 — Monitoring &amp; LLMOps dashboard</h1>
   <p class="sub">
-    Nguồn dữ liệu: <code>{log_path.relative_to(REPO_ROOT) if log_path.is_absolute() else log_path}</code>
+    Nguồn dữ liệu: <code>{display_path(log_path)}</code>
     &nbsp;•&nbsp; Cửa sổ: {WINDOW_MINUTES} phút ({start.strftime("%H:%M")}–{end.strftime("%H:%M")} UTC, dữ liệu thực tế
     {len([v for v in traffic_points if v is not None])} phút)
     &nbsp;•&nbsp; Tự refresh mỗi {REFRESH_SECONDS}s
     &nbsp;•&nbsp; {len(current)} bản ghi trong cửa sổ
     &nbsp;•&nbsp; sinh lúc {generated}
   </p>
+  {note_html}
   <div class="grid">
     {latency_panel}
     {traffic_panel}
@@ -578,10 +591,11 @@ def main() -> int:
     parser = argparse.ArgumentParser(description="Dựng dashboard 6 panel từ data/logs.jsonl")
     parser.add_argument("--log", type=Path, default=DEFAULT_LOG)
     parser.add_argument("--out", type=Path, default=DEFAULT_OUT)
+    parser.add_argument("--note", default="", help="Dòng chú thích ở đầu dashboard, ví dụ challenge ID")
     args = parser.parse_args()
 
     records = load_records(args.log)
-    html = build_html(records, args.log)
+    html = build_html(records, args.log, args.note)
     args.out.parent.mkdir(parents=True, exist_ok=True)
     args.out.write_text(html, encoding="utf-8")
 
